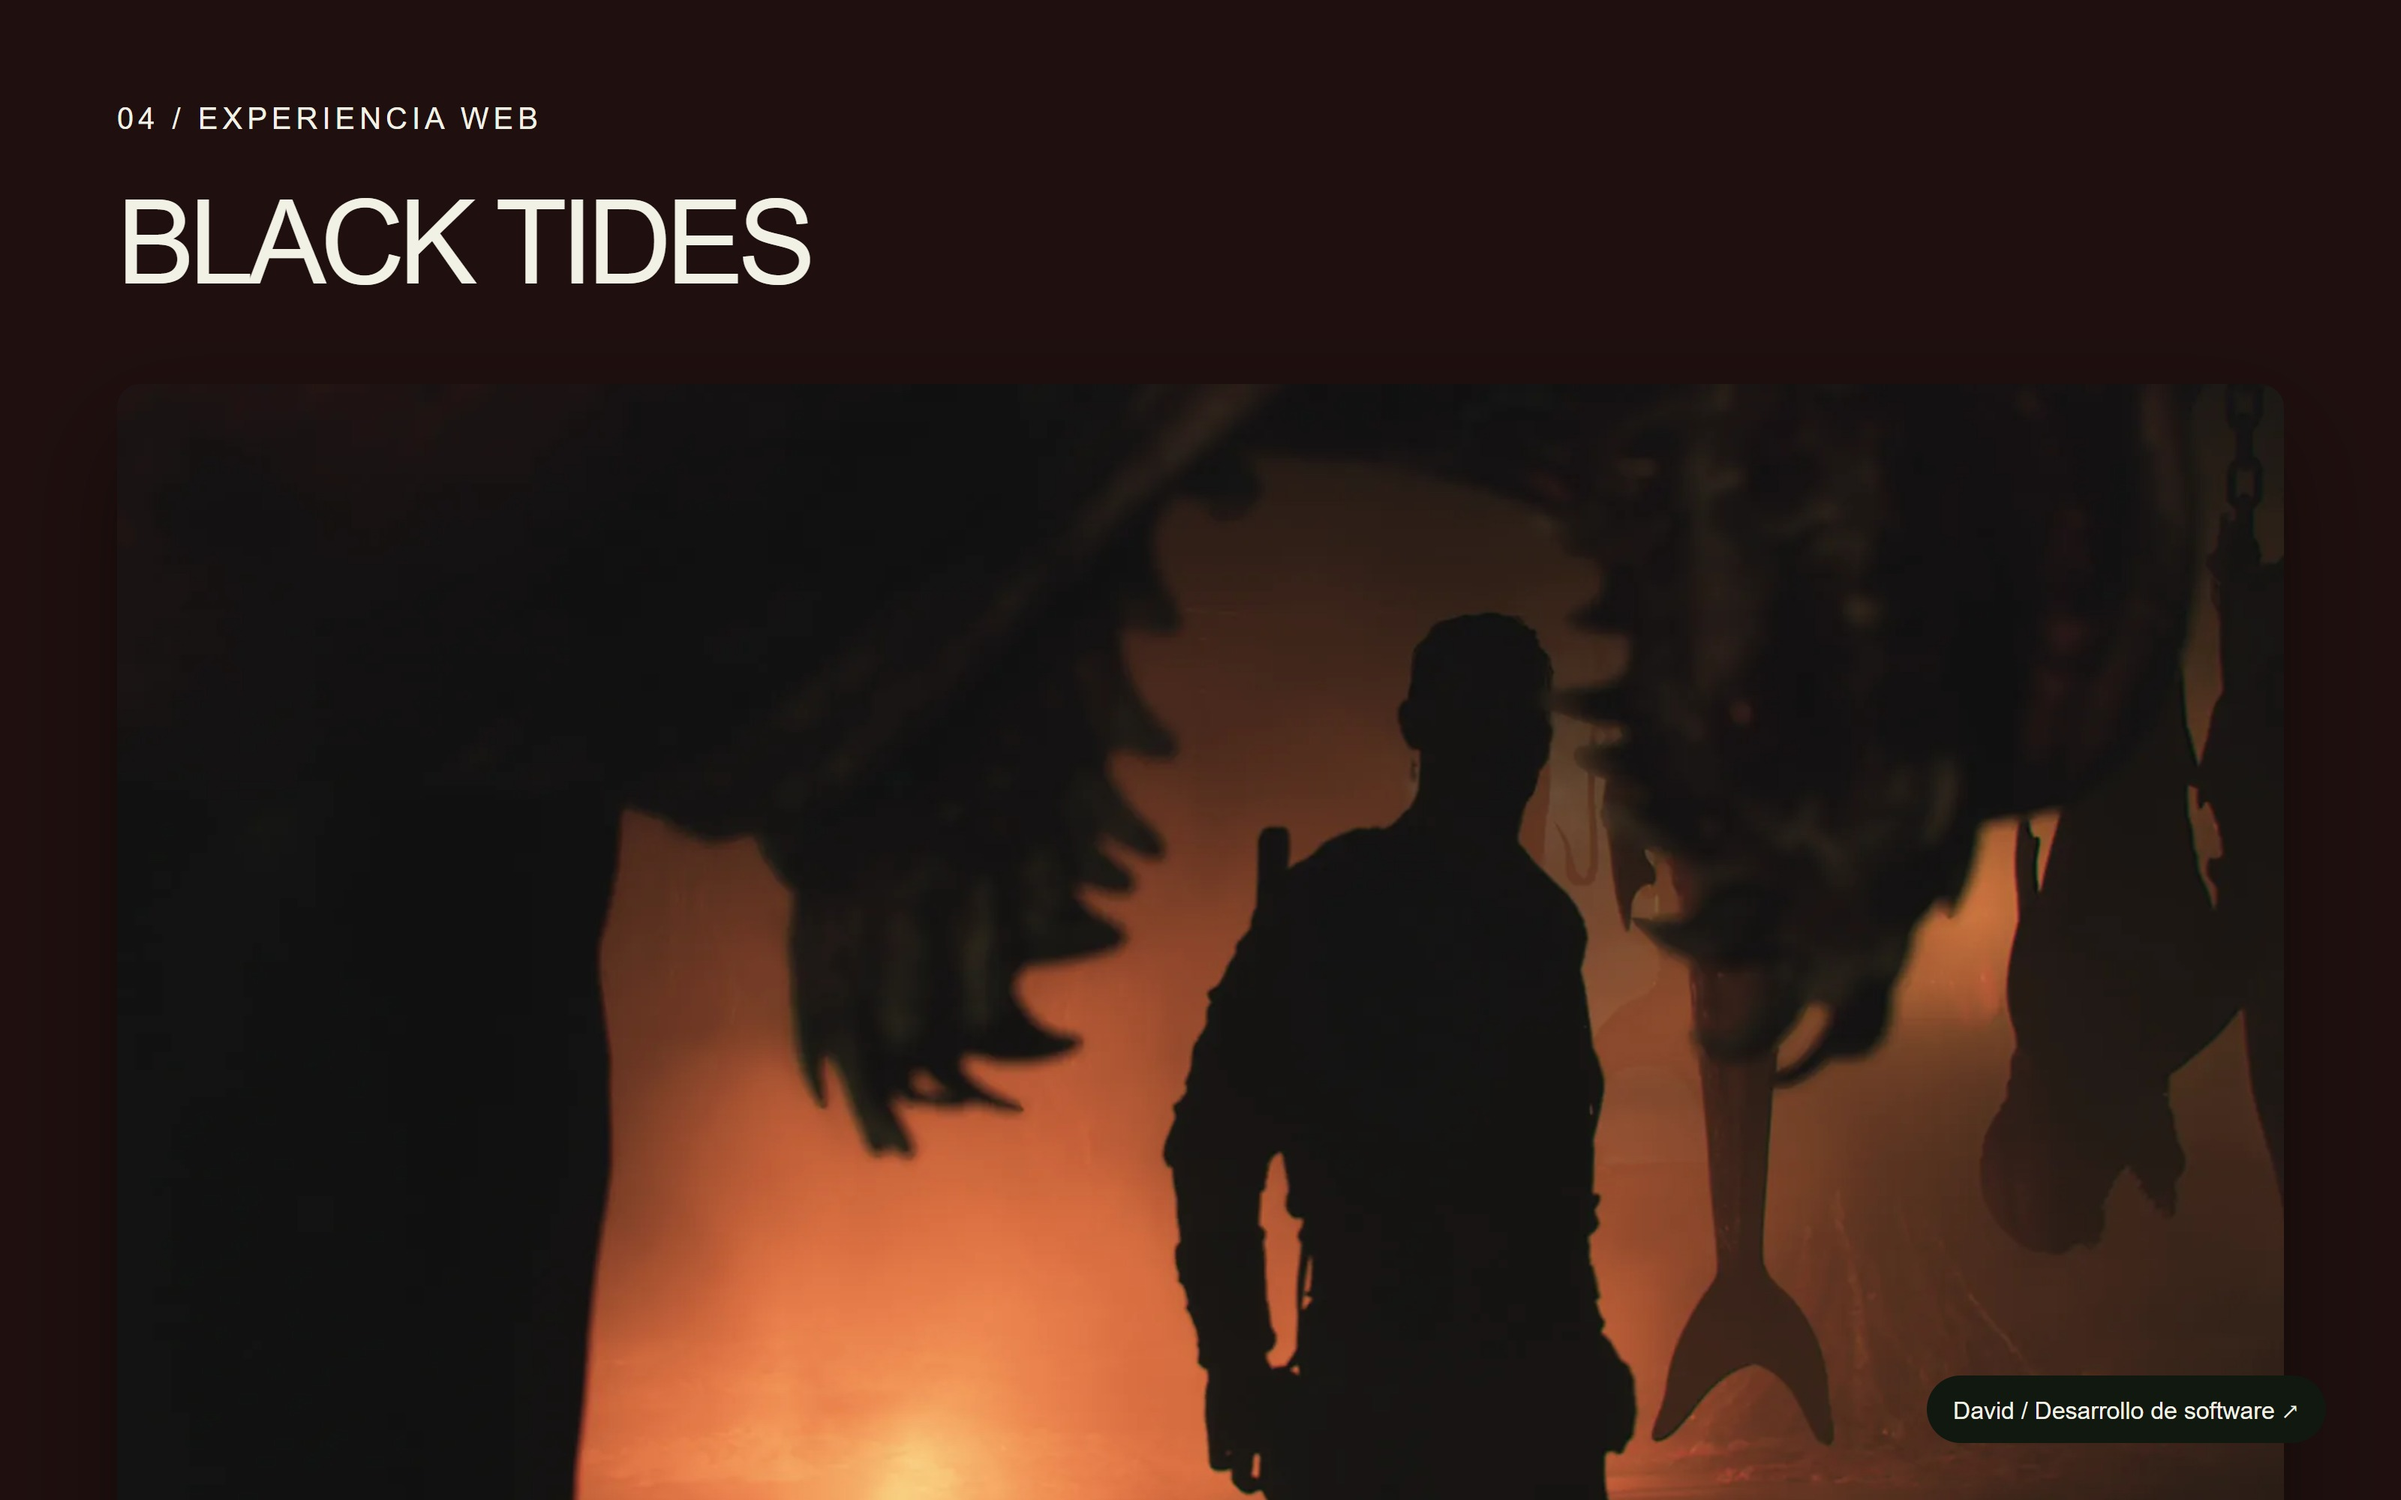
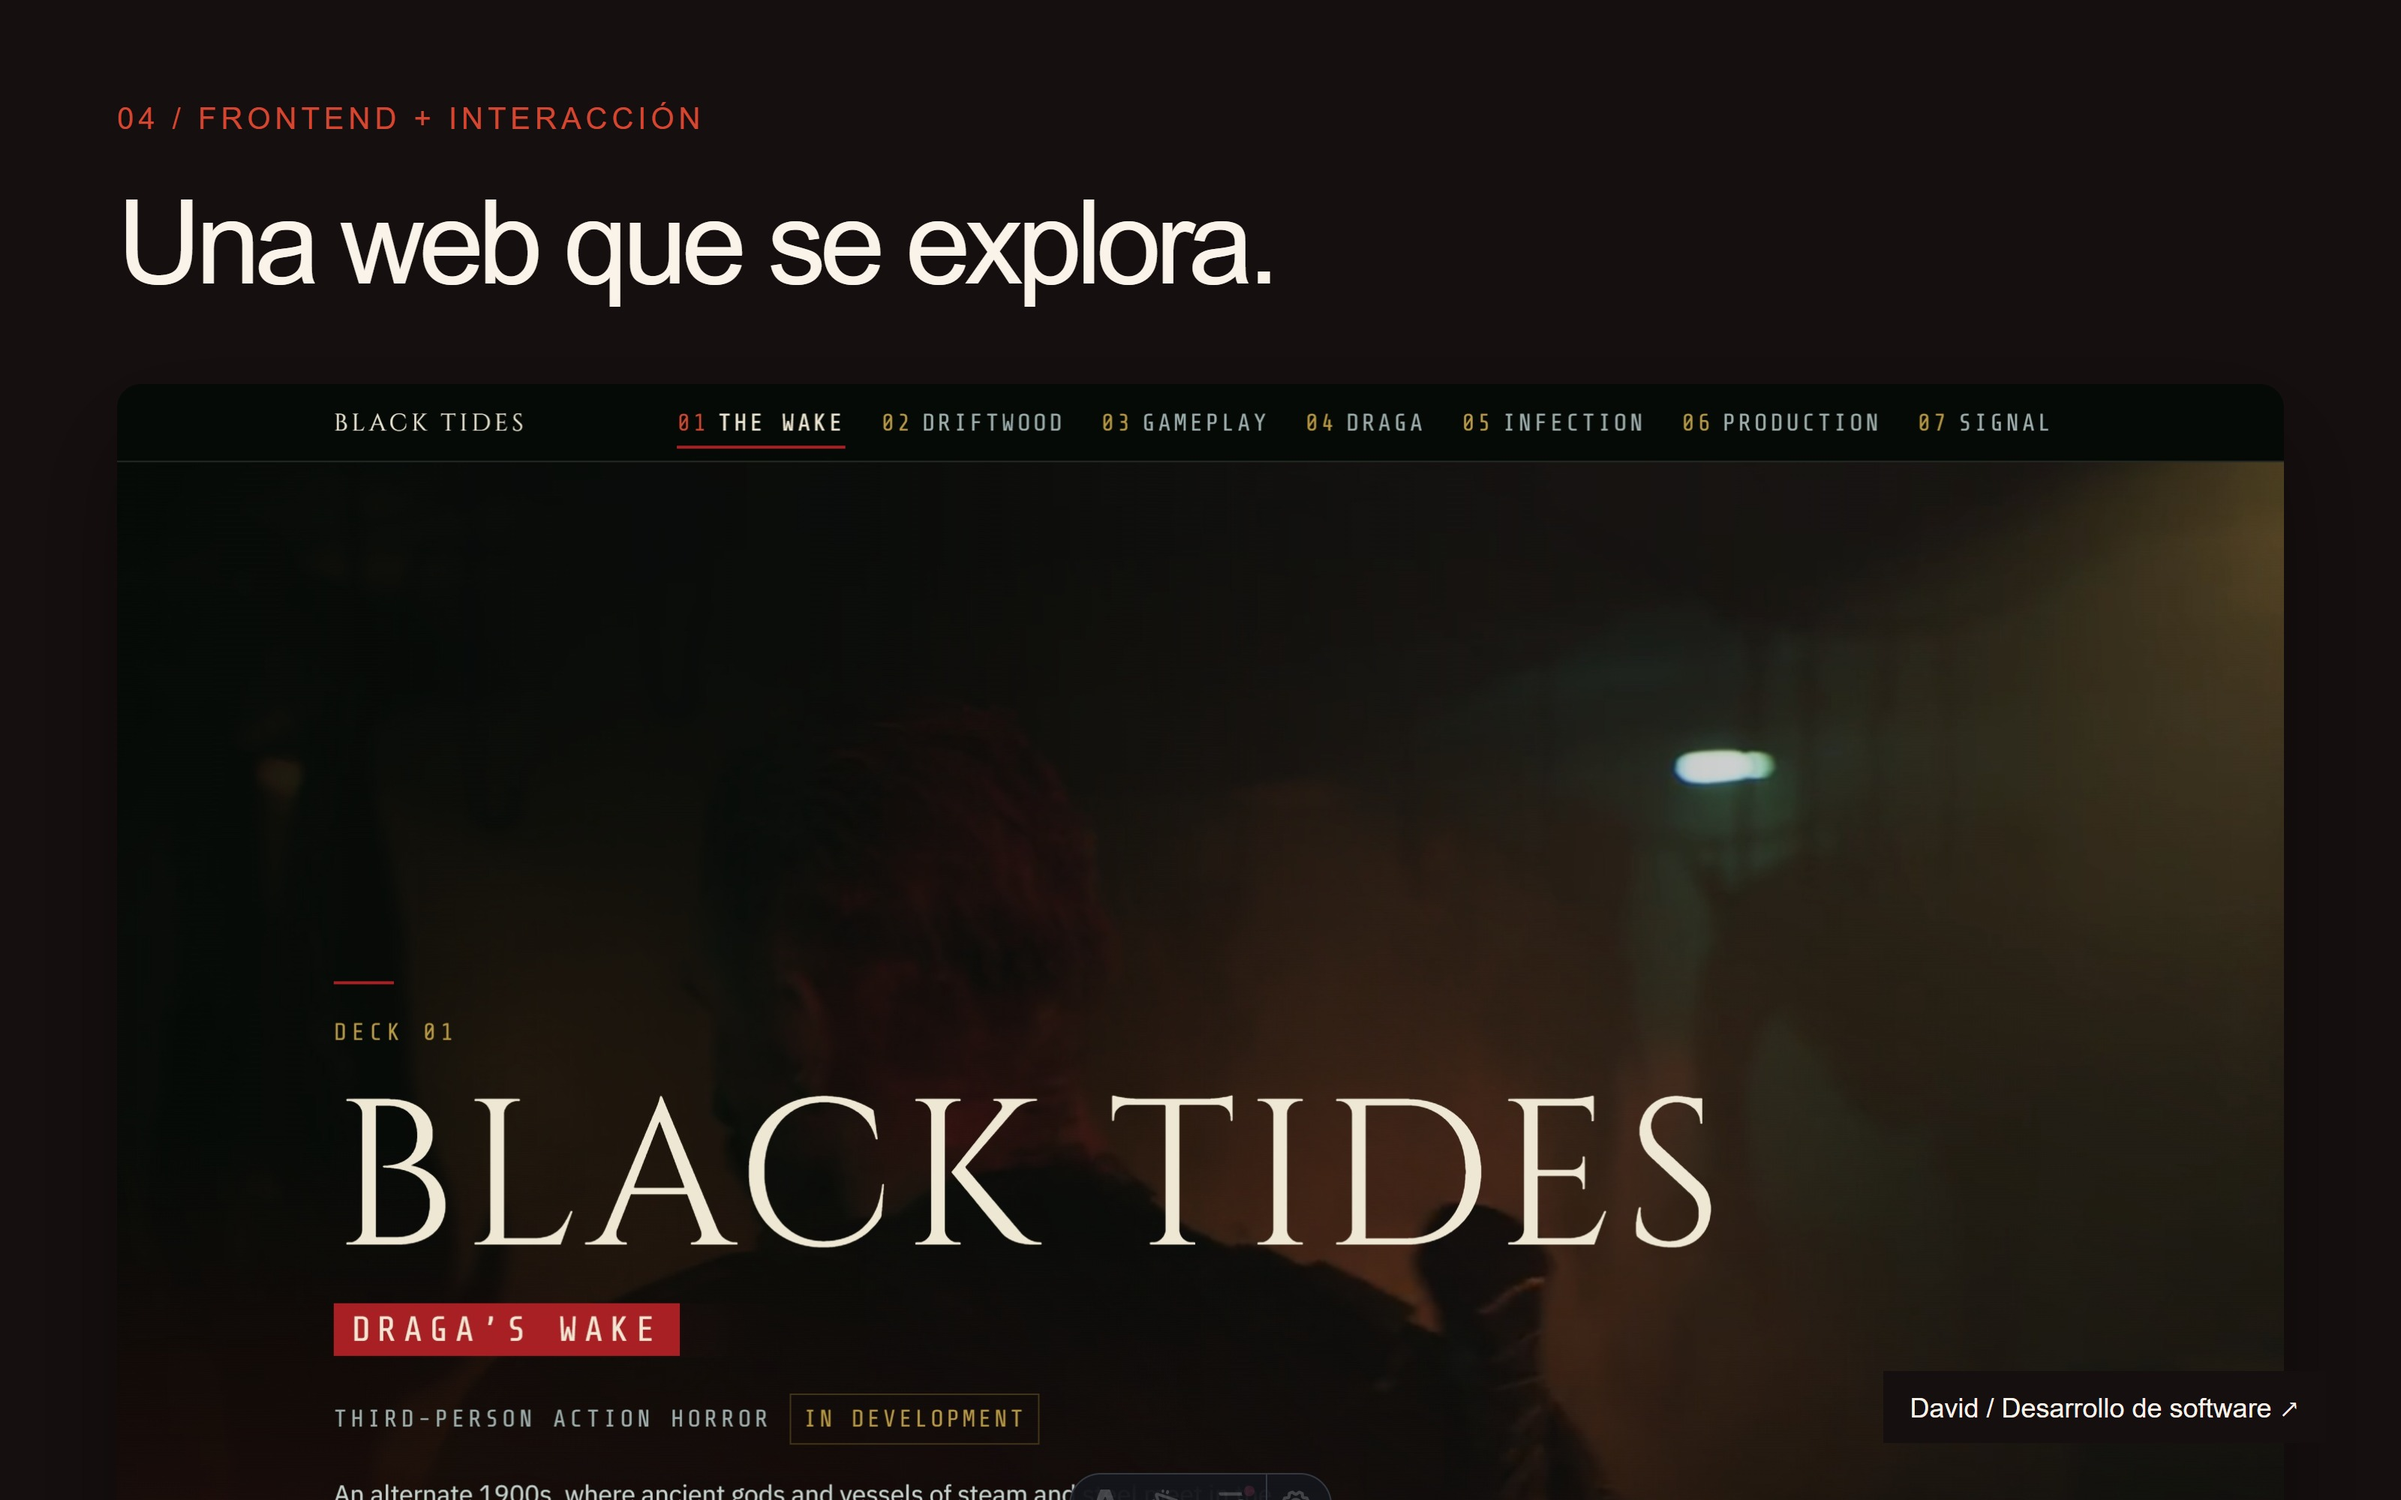
Focus Black Tides case on frontend work

diff --git a/src/styles/portfolio-refinements.css b/src/styles/portfolio-refinements.css
@@ -1,2 +1,3 @@
 .bt-feature{overflow:hidden}.bt-feature video{display:block;width:100%;aspect-ratio:16/9;object-fit:cover;border-radius:16px;background:#050a07}.bt-moments>div,.bt-color-story{display:grid;grid-template-columns:repeat(3,minmax(0,1fr));gap:24px;margin-top:28px}.bt-moments img{aspect-ratio:16/9;object-fit:cover}.bt-moments figure>p,.bt-color-story p{margin-top:14px;color:#b8c2b3;line-height:1.7}.bt-color-story>div{border-top:1px solid #ffffff25;padding-top:20px}.bt-color-story span{display:block;height:70px;border-radius:8px;border:1px solid #ffffff30;margin-bottom:20px}.bt-color-story h3{font-weight:450}.case-tech{border-block:1px solid #ffffff25;margin:35px 0;padding:22px 0}.case-tech summary,.wi-expand summary{cursor:pointer;color:#d3e4c6;font-size:16px}.case-tech>p{max-width:850px;color:#b8c2b3;line-height:1.8;margin:22px 0}.case-tech .wi-proto-grid{margin-top:25px}.wi-expand{margin-bottom:20px}.wi-expand a{display:inline-block;margin-top:18px}.wi-expand p{font-size:12px;color:#aebba7;margin:12px 0}.wi-process{list-style:none;display:grid;grid-template-columns:repeat(4,minmax(0,1fr));padding:0;gap:18px}.wi-process li{border:1px solid #ffffff25;border-radius:12px;padding:25px}.wi-process b{display:block;color:#9ecbf0;font-weight:450;font-size:20px}.wi-process span{display:block;margin-top:15px;color:#b8c2b3}.case--tg .case-image+.case-image{margin-top:clamp(48px,7vw,100px)}.work-card-art img{object-fit:cover;width:100%;height:100%}.work-card:not(:first-child) .work-card-art{height:auto;aspect-ratio:16/10}.work-card:first-child .work-card-art{aspect-ratio:16/10;align-self:center}.case--ecu .ecu-web-proposal{margin-top:60px}
 @media(max-width:700px){.bt-moments>div{grid-template-columns:1fr}.bt-color-story{gap:12px}.bt-color-story h3{font-size:17px}.bt-color-story p{font-size:13px}.wi-process{grid-template-columns:1fr 1fr}.wi-process li{padding:18px}.wi-process b{font-size:17px}.wi-app .wi-side,.wi-app .wi-filters,.wi-app .wi-tabs,.wi-app .wi-bar-right{display:none}.wi-app .wi-kpis{grid-template-columns:1fr 1fr}.wi-app .wi-kpi:nth-child(2),.wi-app .wi-kpi:nth-child(4){display:none}.wi-app .wi-chart svg{min-width:0}.wi-app .wi-chart figcaption{display:block}.wi-app .wi-legend{margin-top:10px}.wi-app .wi-main{padding:10px;gap:12px}.wi-app .wi-kpi strong{font-size:20px}.wi-app .wi-chart{padding:12px}}
+.bt-web-shot{padding:clamp(10px,2vw,28px);background:#080d0b;border:1px solid #ede7d322;border-radius:18px}.bt-web-shot>a{display:block;border-radius:12px;overflow:hidden}.bt-web-shot a:focus-visible{outline:2px solid #d24732;outline-offset:5px}.bt-web-gallery{display:grid;gap:90px}.bt-web-entry{padding-top:45px;border-top:1px solid #ede7d322}.bt-web-copy{display:grid;grid-template-columns:.65fr 1.15fr 1fr;gap:35px;align-items:start;margin-bottom:35px}.bt-web-copy h2{font-size:clamp(27px,3vw,44px);font-weight:450;line-height:1.12}.bt-web-copy>p:last-child{font-size:16px;line-height:1.8;color:#b8c2b3}.case--bt .bt-web-shot img{height:auto;object-fit:contain}.case--bt .bt-feature{margin-top:15px}@media(max-width:700px){.bt-web-copy{grid-template-columns:1fr;gap:18px;margin-bottom:24px}.bt-web-gallery{gap:50px}.bt-web-entry{padding-top:28px}.bt-web-shot{border-radius:12px}}

diff --git a/docs/pendientes-portfolio.md b/docs/pendientes-portfolio.md
@@ -9,6 +9,8 @@ Revisión inicial del 7 de septiembre de 2026. Actualizado el 8 de septiembre de
 
 ## Black Tides
 
+- [x] Reorientar la ficha al trabajo frontend por indicación del usuario: retirado el vídeo del estudio, las imágenes aisladas del juego y las muestras de color. Incorporadas tres capturas reales de la web local (portada, Infection y comparador de producción), ampliables y con explicación de la aportación web. Actualizada la portada del listado. Esta selección sustituye la propuesta audiovisual anterior.
+
 - [x] Traducir los detalles de implementación a beneficios para el cliente: fluidez, adaptación al dispositivo y accesibilidad. Conservar driver de scroll, registro de GSAP y demás detalles en un apartado técnico desplegable.
 - [x] Resumir la presentación de los siete capítulos en tres momentos visuales: entrada, exploración y transformación. Reducir la longitud de la ficha, especialmente en móvil.
 - [x] Simplificar la paleta: menos muestras y códigos, más ejemplos de aplicación visual.
